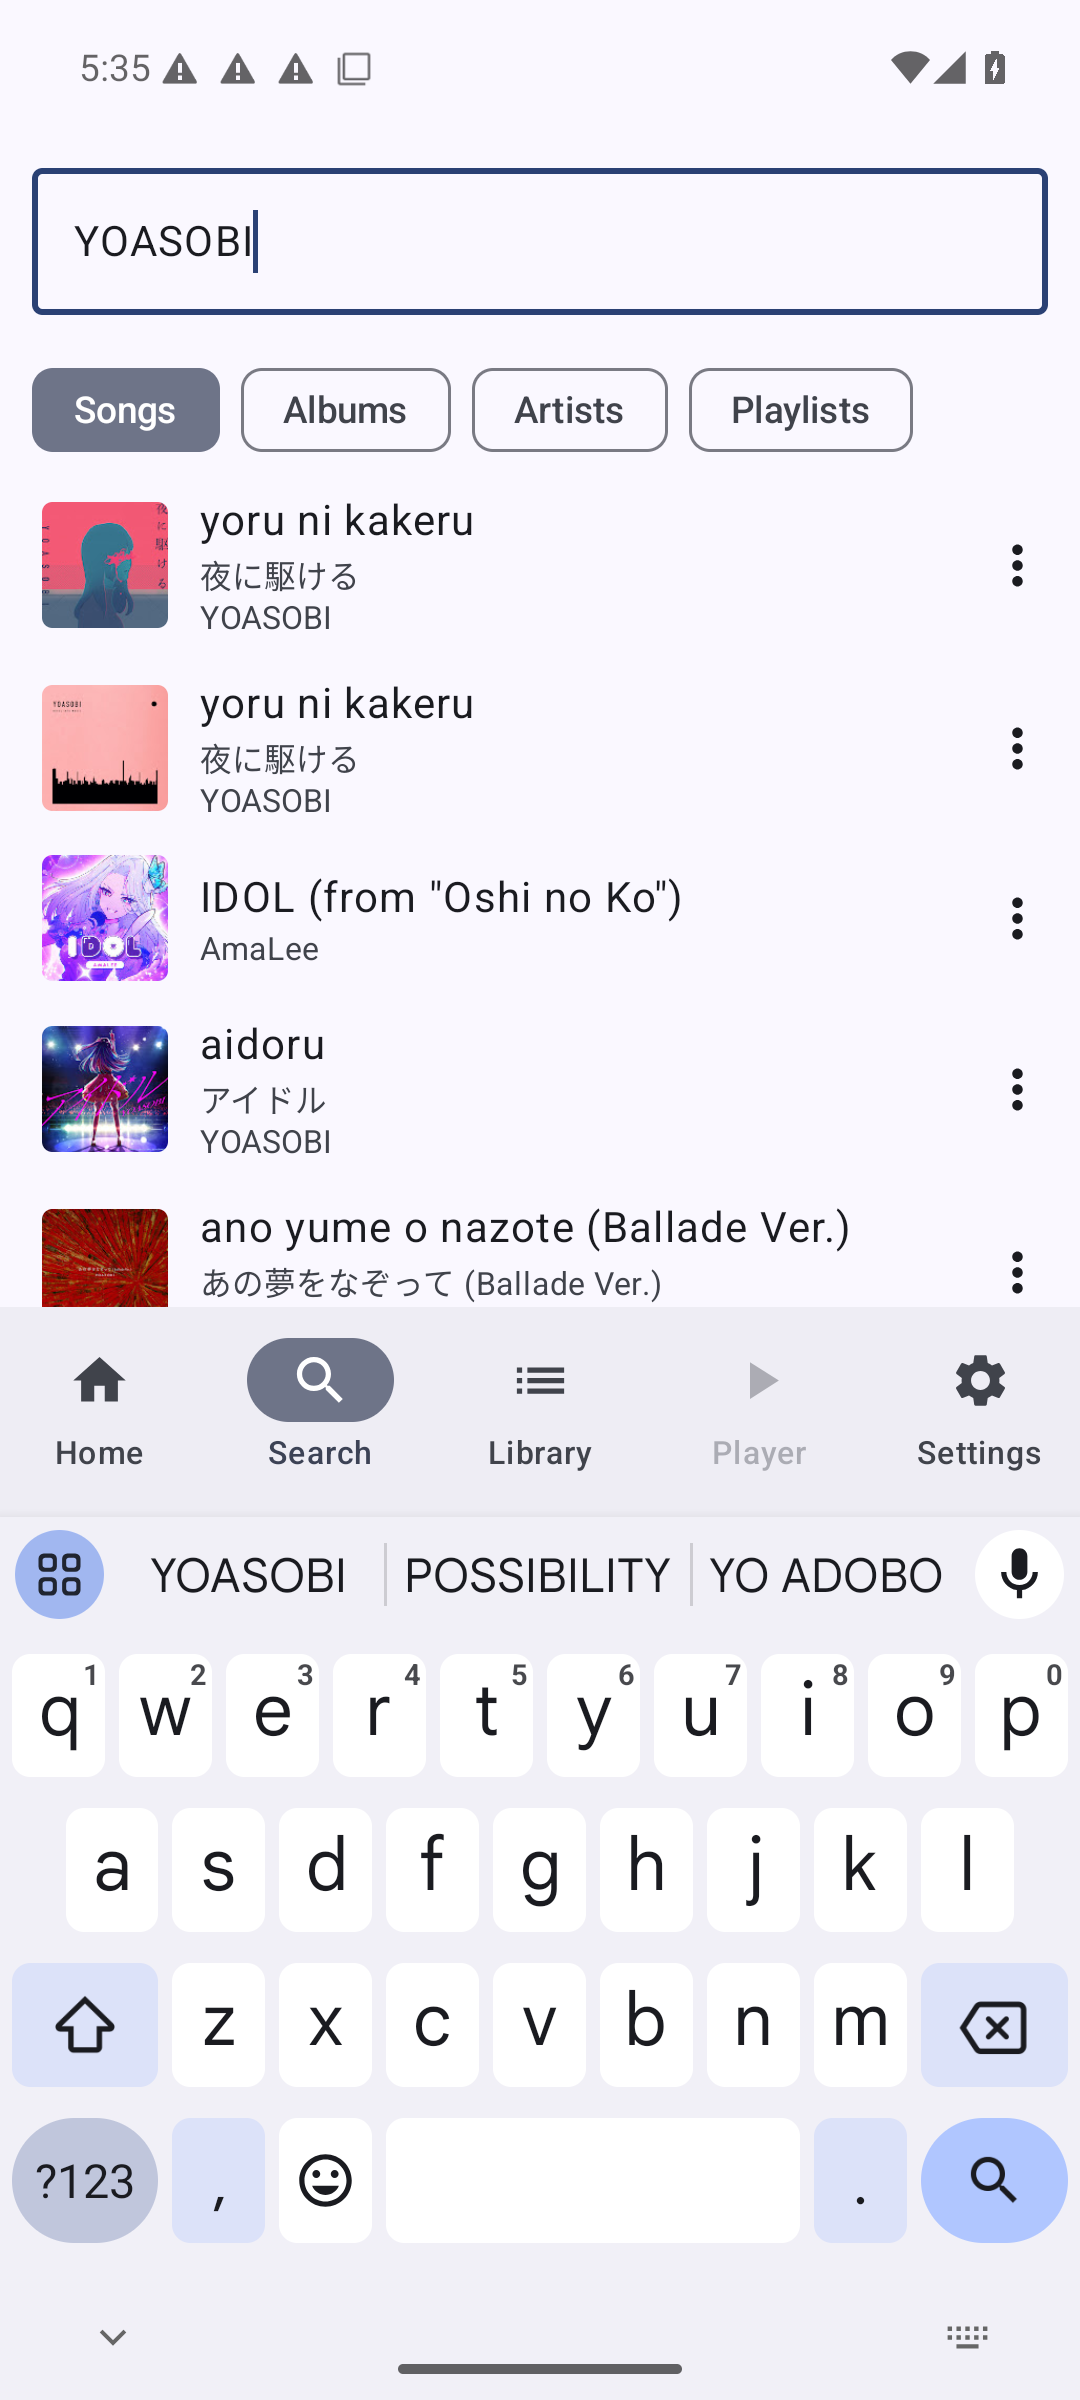
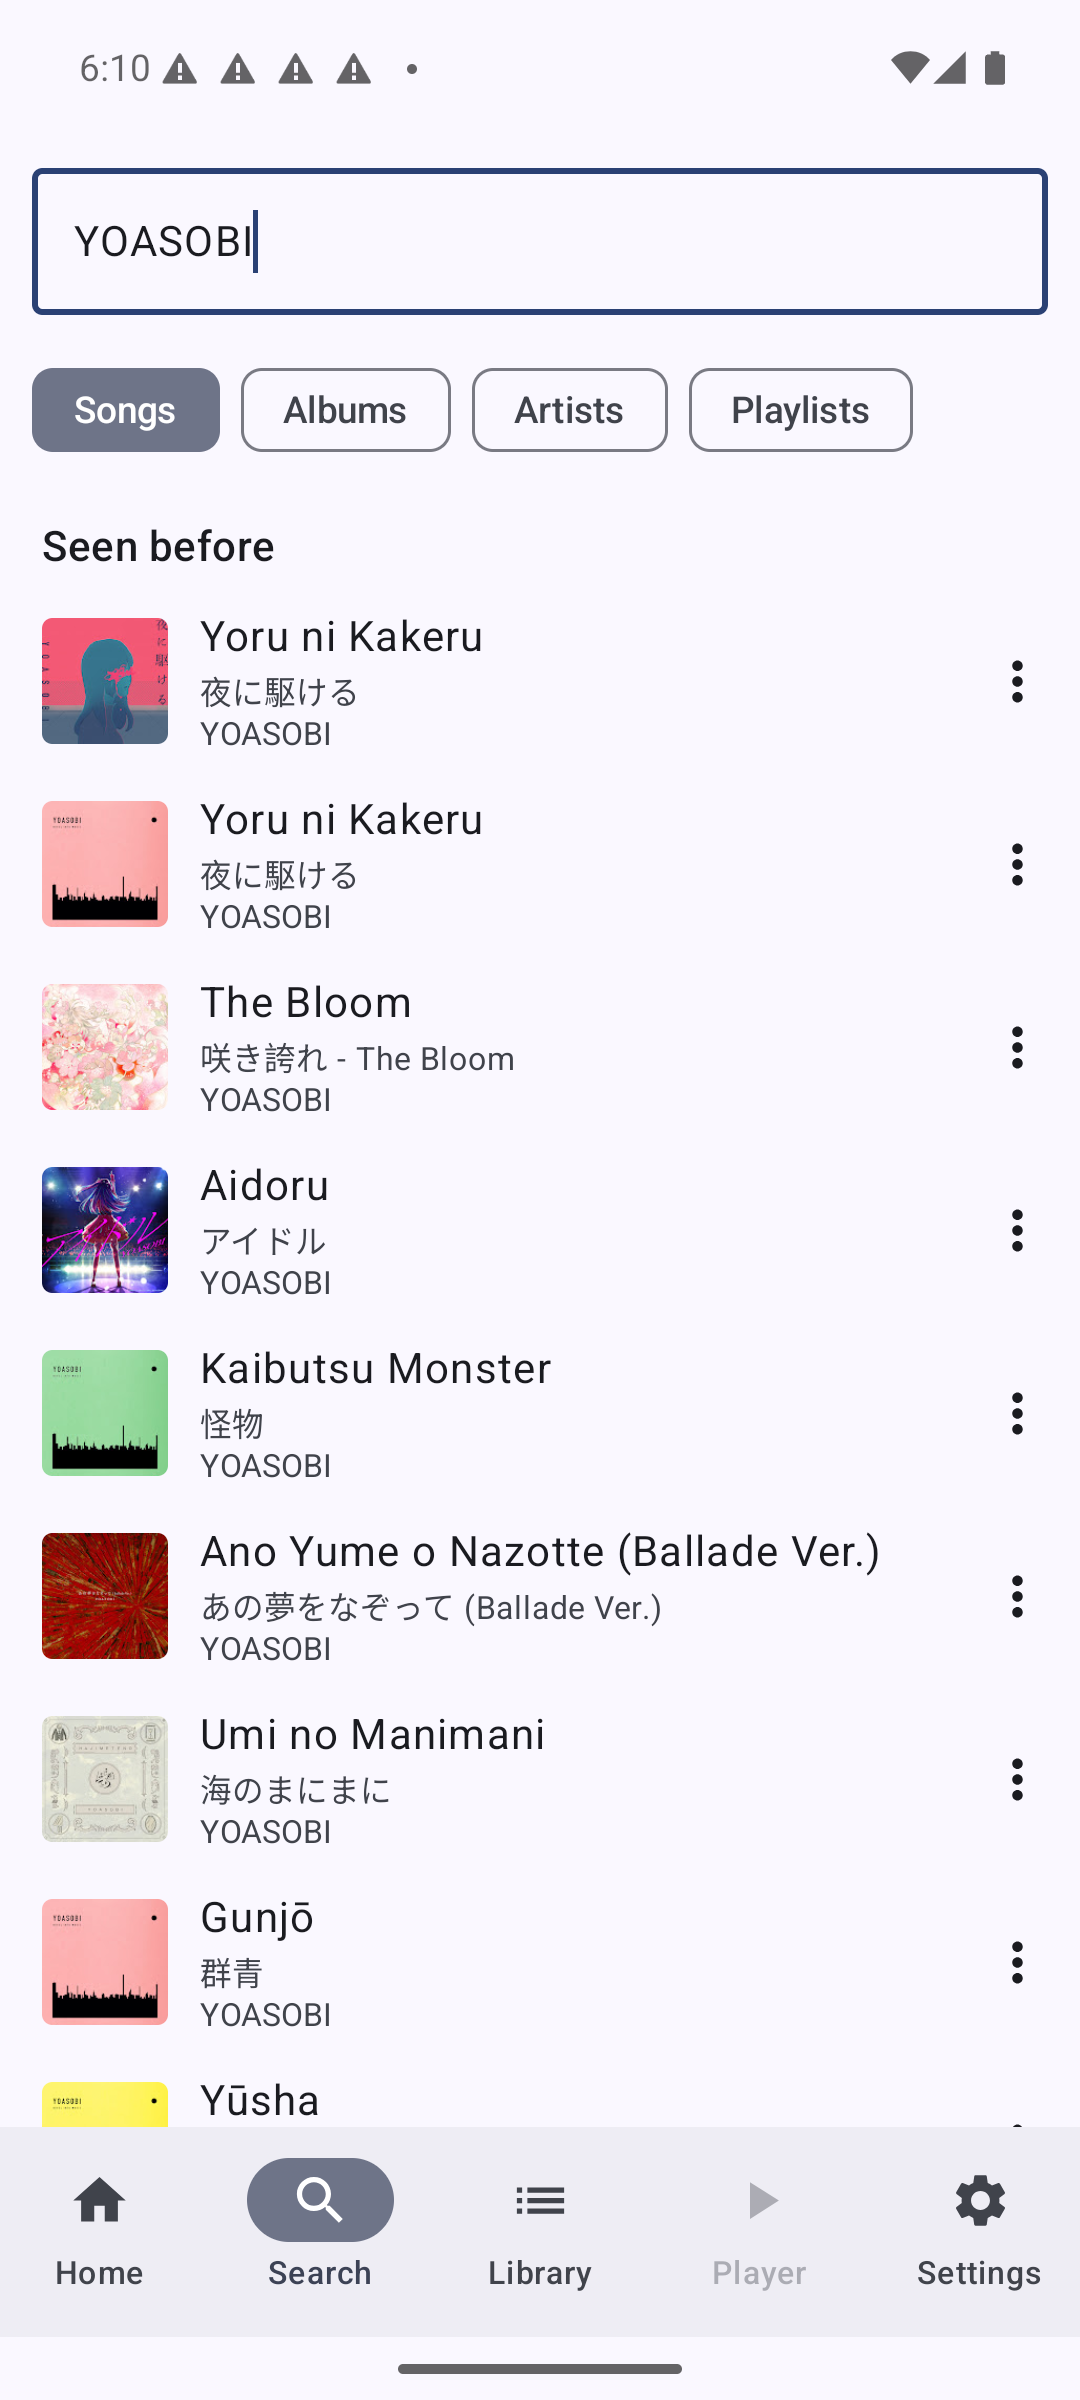
Own Latin form: ignore version tags inside the Latin part's brackets; local search hits follow current rules; record why アイドル has no official Latin title

diff --git a/core/src/main/kotlin/roma/core/Romanize.kt b/core/src/main/kotlin/roma/core/Romanize.kt
@@ -367,7 +367,9 @@ class Romanizer(private val icu: Icu, var settings: RomanizeSettings = RomanizeS
             val n = normalize(s)
             val m = Regex("""^(.+?) (?:-|/) (.+)$""").find(n) ?: Regex("""^(.+?)\s*\(([^()]+)\)$""").find(n) ?: return null
             val (left, right) = m.destructured
-            if (!hasNonLatin(left) || hasNonLatin(right) || right.none { it.isLetter() } || VERSION_TAG.containsMatchIn(right)) return null
+            // The tag check skips the Latin part's own brackets: "すずめ - Suzume (feat. Toaka)" is still "Suzume (feat. Toaka)".
+            val tagged = VERSION_TAG.containsMatchIn(right.replace(Regex("""\(.*?\)"""), ""))
+            if (!hasNonLatin(left) || hasNonLatin(right) || right.none { it.isLetter() } || tagged) return null
             return right.trim()
         }
 

diff --git a/core/src/test/kotlin/roma/core/RomanizeTest.kt b/core/src/test/kotlin/roma/core/RomanizeTest.kt
@@ -89,6 +89,8 @@ class RomanizeTest {
     @Test fun ownLatinForm() {
         assertEquals("Spica", r.text("スピカ - Spica", titleOf = true).latin)
         assertEquals("Idol", r.text("アイドル - Idol", titleOf = true).latin)
+        assertEquals("Suzume (feat. Toaka)", r.text("すずめ - Suzume (feat. Toaka)", titleOf = true).latin)
+        assertEquals("Yoru ni Kakeru - Live", r.text("夜に駆ける - Live", titleOf = true).latin)
         assertEquals("Silhouette", r.text("シルエット (Silhouette)", titleOf = true).latin)
         // Version tags are not a Latin form.
         assertEquals("Yoru ni Kakeru (Ballade Ver.)", r.text("夜に駆ける (Ballade Ver.)", titleOf = true).latin)

diff --git a/app/src/main/kotlin/com/zakius/roma/App.kt b/app/src/main/kotlin/com/zakius/roma/App.kt
@@ -18,6 +18,7 @@ import roma.core.RadioSettings
 import roma.core.RomanizeSettings
 import roma.core.Romanizer
 import roma.core.Song
+import roma.core.again
 import roma.core.matches
 import java.io.File
 
@@ -174,5 +175,6 @@ object Store {
         }
     }
 
-    fun searchLocal(q: String): List<Song> = synchronized(index) { index.filter { matches(it, q) }.take(20) }
+    // The stored Latin forms date from when each song was seen; romanize the hits again so they follow today's rules.
+    fun searchLocal(q: String): List<Song> = synchronized(index) { index.filter { matches(it, q) }.take(20) }.map { romanizer.again(it) }
 }

diff --git a/docs/design.md b/docs/design.md
@@ -125,7 +125,7 @@ Decisions taken while building v1, where the spec left room or turned out differ
 - Extra dependency the spec didn't name: `desugar_jdk_libs_nio`, which NewPipeExtractor needs below API 33.
 - Streams: NewPipeExtractor's current YouTube client needs no PoToken, so no WebView token generator. Loudness comes from one extra `player` call (WEB_REMIX); it only turns loud tracks down, because the volume can't go above 1.
 - Official Latin names: the YouTube channel name is used as is. MusicBrainz aliases are not fetched (not cheap: rate-limited, needs matching).
-- Official Latin song titles: YouTube Music has no separate field for one. With `hl=en` (InnerTubeX's default, en-US) the watch-next and radio responses often give the title as "original - Latin" ("アイドル - Idol", "群青 - Gunjō", "打上花火 - Fireworks"), and search sometimes does ("咲き誇れ - The Bloom"); with `hl=ja` they give the plain original. The own-Latin-form rule picks these up. The same song can come with either title depending on where it entered the app; that is accepted.
+- Official Latin song titles: YouTube Music has no separate field for one. With `hl=en` (InnerTubeX's default, en-US) the watch-next and radio responses often give the title as "original - Latin" ("アイドル - Idol", "群青 - Gunjō", "打上花火 - Fireworks"), and search sometimes does ("咲き誇れ - The Bloom"); with `hl=ja` they give the plain original. The own-Latin-form rule picks these up. These localized titles belong to the video: アイドル's music video (ZRtdQ81jPUQ) comes as "アイドル - Idol", but its audio track (m9SMT5ipbxk), which "Prefer audio tracks" picks, comes as plain "アイドル" from search, watch-next and radio alike. So アイドル by YOASOBI shows "Aidoru"; a correction fixes it.
 - Lyrics providers: NetEase (word timing as YRC, line LRC, Chinese translations) and KuGou (word timing as KRC, decrypted with the well-known key) use unofficial APIs with no token. LRCLIB is free and keyless. Musixmatch is left out: richsync needs a user token taken from their app, which breaks their ToS. Every provider must match the title as well as the duration, because duration alone picked an English cover. A song with no lyrics is cached as "none" too; Settings has "Search lyrics again".
 - Radio leash: close keeps only the seed's artist and the related artists from its artist page. Medium lets in other artists only while they stay fewer than the on-leash songs. Free applies no artist filter. Reasons shown are "same artist" and "related artist"; YouTube's radio gives no "often played after".
 - "Prefer audio tracks" drops a music video when the same title by the same artist exists as an audio track; a video with no audio twin stays.
